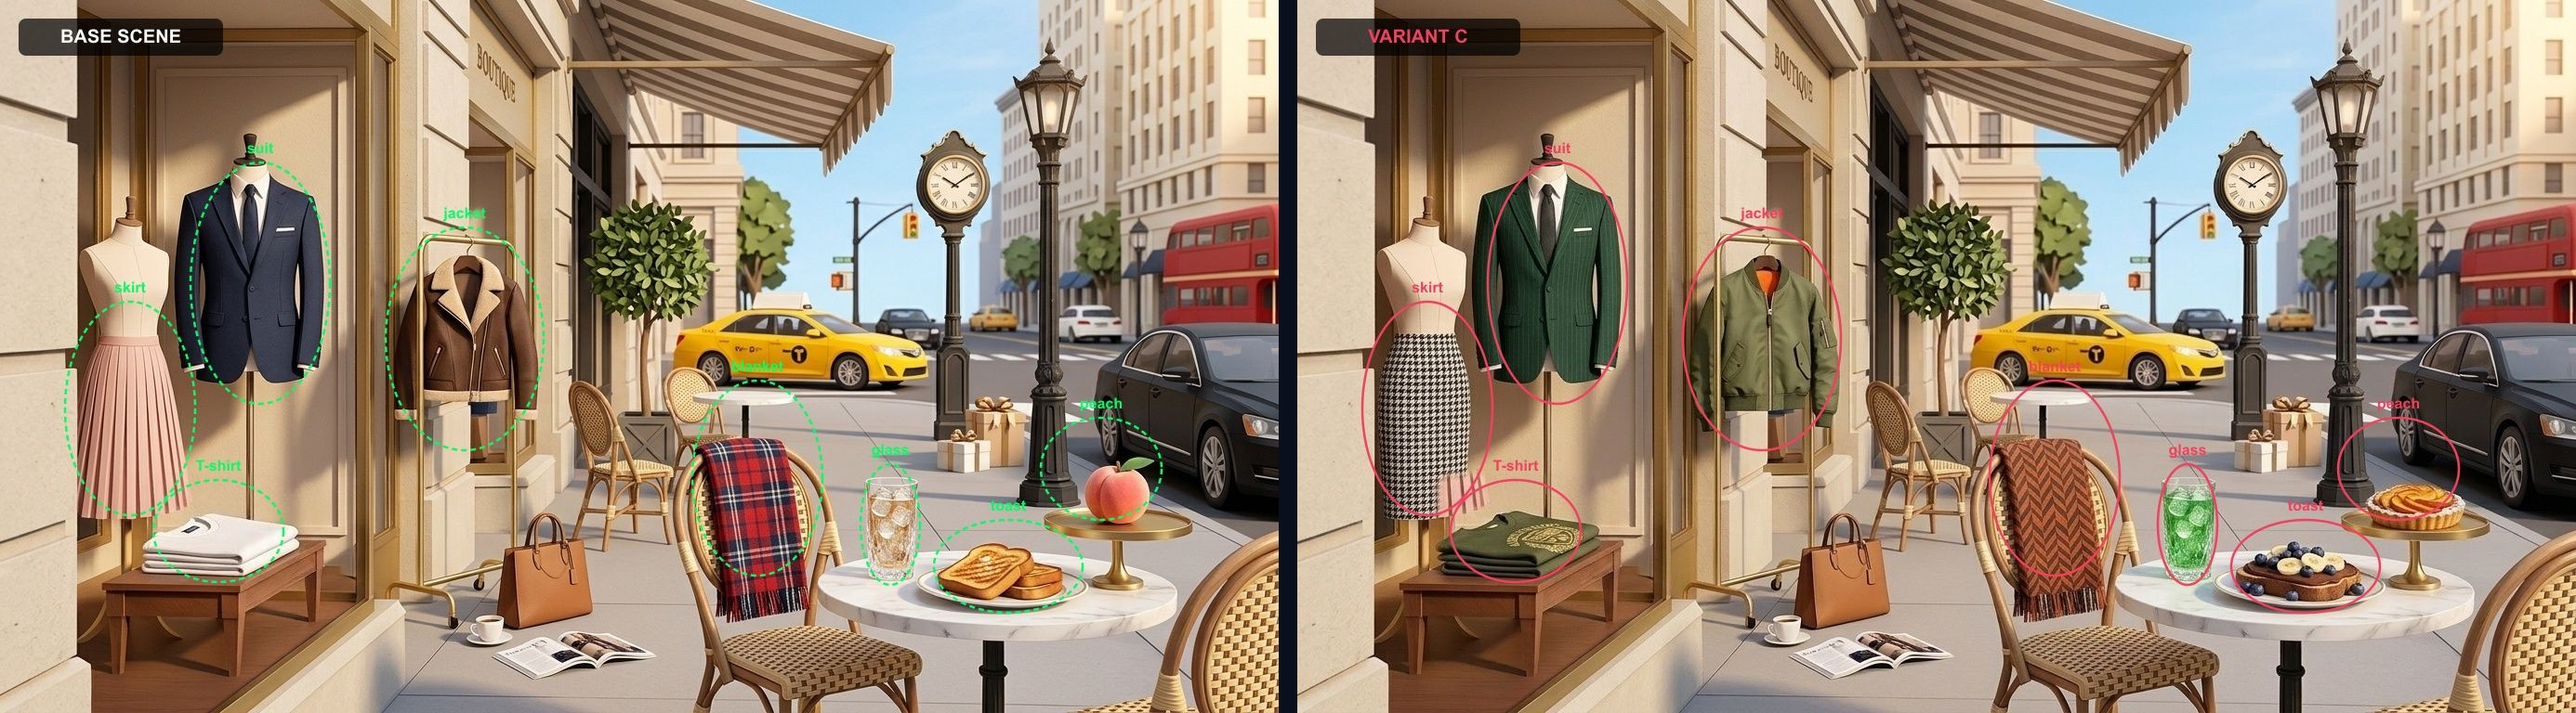
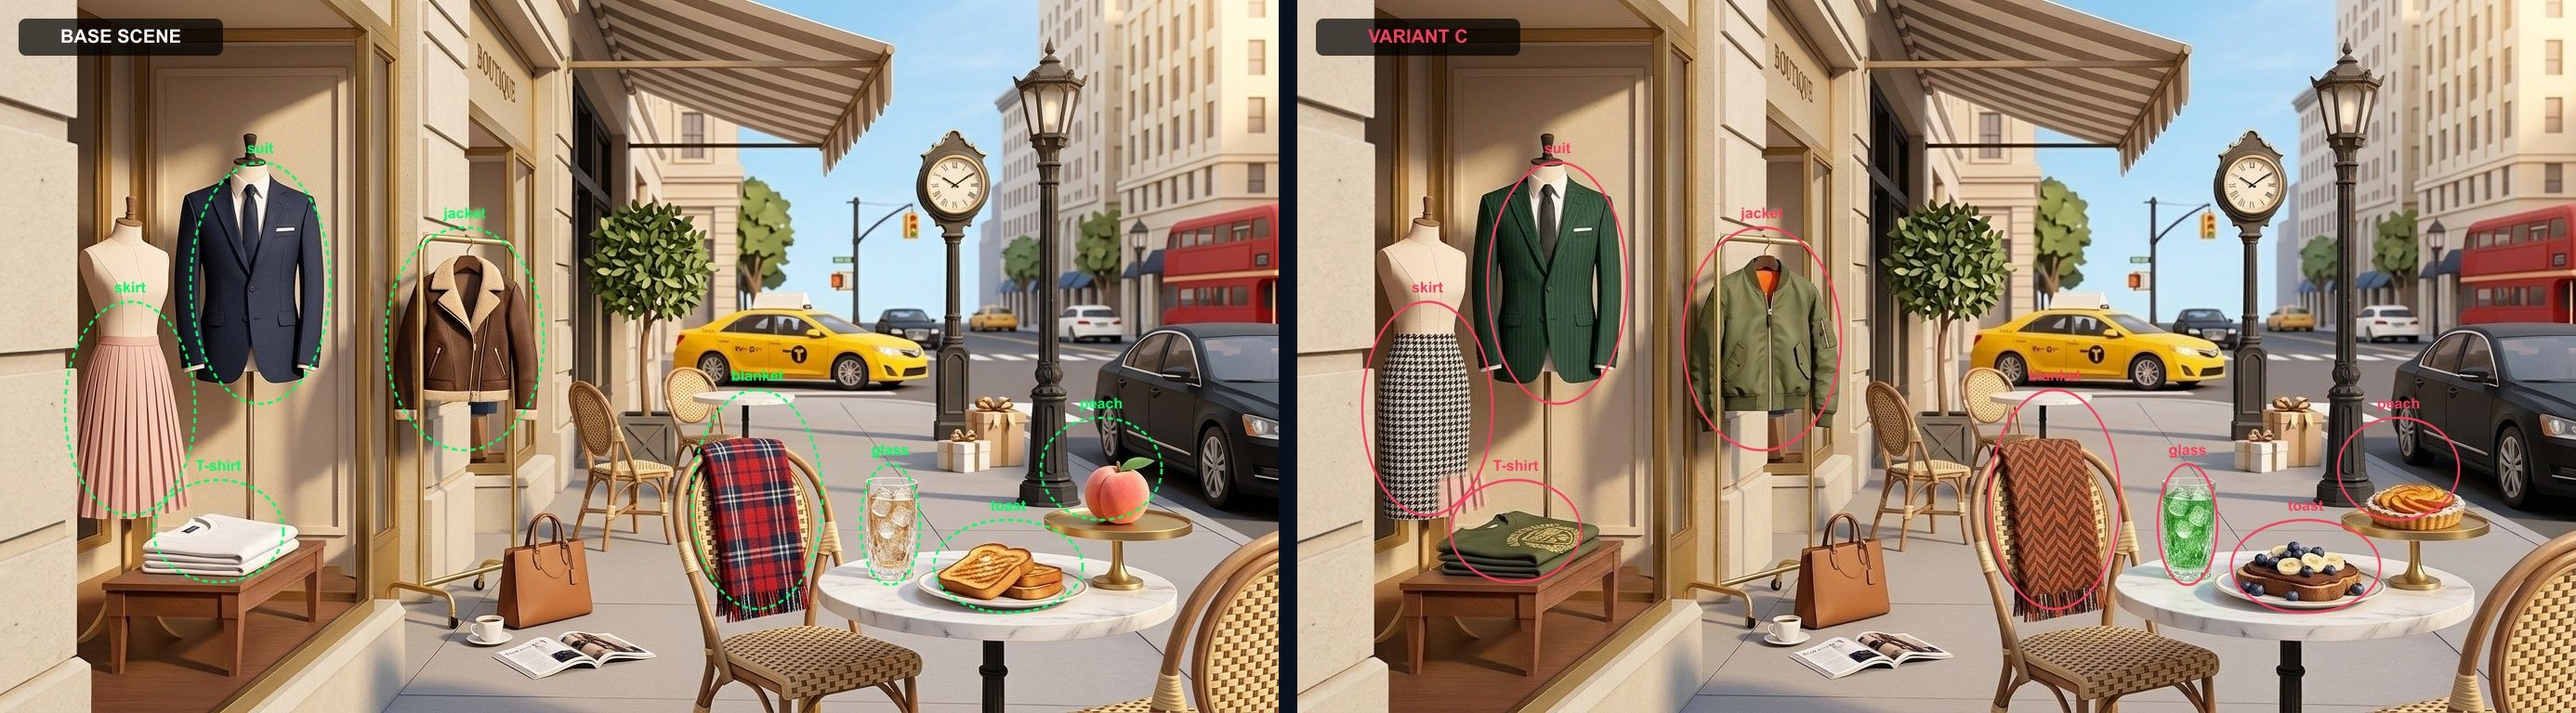
fix(spotter): shift blanket box down to encompass all bottom fringes

diff --git a/src/games/spotter/spotterData.js b/src/games/spotter/spotterData.js
@@ -2131,13 +2131,13 @@ export const BOOK8_AVENUE_SCENE = {
       word: 'blanket',
       wordZh: '薄毯',
       x: 815,
-      y: 515,
-      radius: 105,
+      y: 538,
+      radius: 118,
       radiusX: 70,
-      radiusY: 105,
+      radiusY: 118,
       typeZh: '毛毯織紋',
       descZh: '露天咖啡椅背為紅黑英倫格紋毛毯，右圖轉為鵝黃菱格編織毛毯',
-      slot: { x: 745, y: 410, w: 140, h: 210, rx: 16 },
+      slot: { x: 745, y: 420, w: 140, h: 236, rx: 16 },
       patchFile: 'blanket_variantA.png',
       cropCompare: '/assets/spotter/crops/b8_s2/blanket_compare.jpg',
       variants: [
